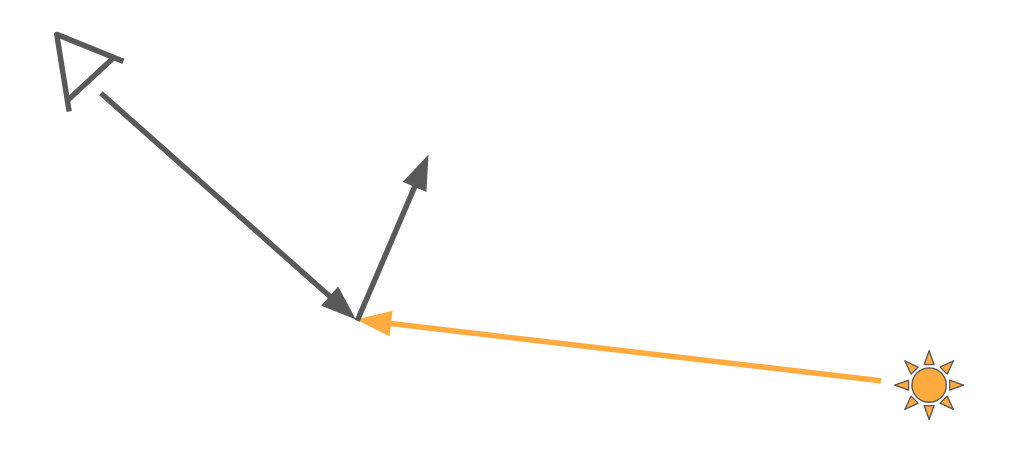
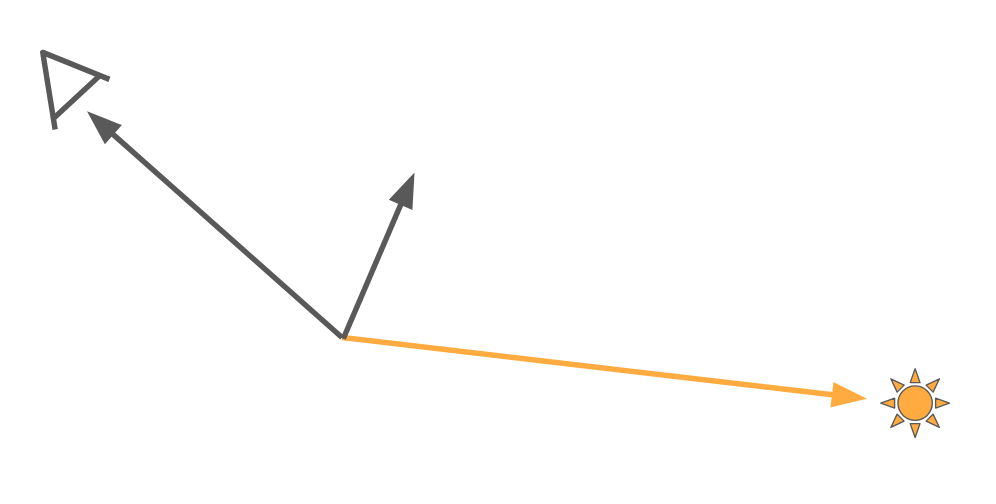
Finalize stretchy reflections blog post

Changed region(s): [[0.3112, 0.3914, 0.9649, 0.9032], [0.0311, 0.0602, 0.2801, 0.572], [0.4046, 0.3312, 0.4357, 0.3613]]

diff --git a/StretchyReflections.md b/StretchyReflections.md
@@ -2,7 +2,9 @@
 
 Often, when I walk along the Ottawa river, I like to look at the reflections.
 
-// TODO: Picture of water in Ottawa
+![](StretchyReflections_Assets/Ottawa02.jpg)
+
+![](StretchyReflections_Assets/Ottawa01.jpg)
 
 Notice that the reflections at the horizon are stretching vertically.
 
@@ -12,7 +14,7 @@ I thought I would share that with you!
 
 ## A Brief Detour Into Microfacet Models
 
-For this post, I'm assuming that the reader is not familiar with microfacet models. If you are, feel free to skip ahead.
+For this post, I'm assuming that the reader is not familiar with microfacet models. If you are, feel free to skip ahead. [\[Shortcut\]](#reflections-and-why-theyre-stretchy)
 
 Let's take a brief detour to summarize microfacets and perfect mirrors as these details are necessary to understand why we get those stretchy reflections.
 
@@ -31,7 +33,7 @@ Common lighting models in games make use of whats called a microfacet model. To 
 
 This is a piece of zinc-plated steel.
 
-If I were to ask you: "Is this a flat surface?" It seems likely that you would say yes! But if we take a microscopic view of the cross section, you'll see that it's actually quite a bit bumpy!
+If I were to ask you: "Is this a flat surface?" It seems likely that you would say yes. However, if we take a microscopic view of the cross section, you'll see that it's actually quite a bit bumpy!
 
 ![](StretchyReflections_Assets/ZincCoatedSteel_CrossSection.jpg)
 
@@ -51,7 +53,7 @@ What if all of these tiny little surfaces are actually perfect mirrors?
 
 ![](StretchyReflections_Assets/MirrorSurface.PNG)
 
-Where a perfect mirror is a surface that will reflect incoming light in a single direction. None of that "scattering" stuff. We want **perfect** reflections here! (You'll often see the words "Dirac delta" thrown around when talking about perfect mirrors)
+Where a perfect mirror is a surface that will reflect incoming light in a single direction. None of that "scattering" stuff. We want **perfect** reflections here!
 
 This assumption drastically simplifies the mathematics of our model.
 
@@ -61,7 +63,7 @@ What's next?
 
 ### Reflections
 
-We need to find out how much light reaches the viewer!
+We need to find out how much light reaches the viewer.
 
 To find out, we need to know how much light each microfacet reflects towards our view direction. Since we assumed that our surface was made up of tiny little perfect mirrors, only a single exact orientation of mirror will reflect light to our viewer. Every other mirror will not contribute to what our viewer sees.
 
@@ -75,15 +77,13 @@ $$
 Light_{Out} = Proportion(Orientation) * Light_{In}
 $$
 
-(I'm choosing to ignore shadowing and masking for simplicity - for a more thorough and accurate overview of microfacet models, take a look at some of the links I shared above. They're really good!)
+(You might notice that some of that light should be occluded by other microfacets. This is known as masking and shadowing. I'm choosing to ignore these for simplicit. They aren't necessary for us to understand this phenomenon. For a more thorough and accurate overview of microfacet models, take a look at some of the links I shared above. They're really good!)
 
 What **is** this exact orientation of mirror?
 
 It's simply the microfacet with a normal that points halfway between our light vector and view vector.
 
 The normal of that microfacet is usually called the half vector.
-
-![](StretchyReflections_Assets/LightAndViewDir_00.PNG)
 
 ![](StretchyReflections_Assets/LightAndViewDir_01.PNG)
 
@@ -140,7 +140,7 @@ If we could convert our normal into a two dimensional vector, we could input tha
 
 The transformation we're looking for is a transformation into slope space.
 
-For the purposes of this post, we won't be describing slope space. You can read more about it here: [Slope Space in BRDF Theory](https://www.reedbeta.com/blog/slope-space-in-brdf-theory/). For even more reading, slope space can be viewed as a specialization of a stereographic projection which is you can read more about on [Wikipedia](https://en.wikipedia.org/wiki/Stereographic_projection).
+For the purposes of this post, we won't be describing slope space. You can read more about it here: [Slope Space in BRDF Theory](https://www.reedbeta.com/blog/slope-space-in-brdf-theory/). For even more reading, slope space can be viewed as a specialization of a stereographic projection. [Wikipedia Link](https://en.wikipedia.org/wiki/Stereographic_projection).
 
 What matters to us is that slope space allows us to transform our three dimensional unit vector into a two dimensional vector.
 
@@ -243,17 +243,17 @@ Notice how as we move our view vector along the horizon our half vector moves aw
 
 ![](StretchyReflections_Assets/HorizonAngle_SlopeSpace_01.gif)
 
-This matches the behaviour we observed in 3D. Our half vector is moving away from the center of our distribution with the most influence. What happens to our half vector if we vary the altitude of our light vector?
+This matches the behaviour we observed in 3D. Our half vector is moving away from the center of our distribution. What happens to our half vector if we vary the altitude of our light vector?
 
 ![](StretchyReflections_Assets/HorizonAngle_ChangingViewAltitude.gif)
 
-It seems as though our half vector is moving away from our apex at different rates based on the altitude of our view vector!
+It seems as though our half vector is moving away from our apex at different rates based on the altitude of our light and vectors!
 
 Let's validate that in slope space.
 
 ![](StretchyReflections_Assets/HorizonAngle_SlopeSpace_ChangingViewAltitude.gif)
 
-Notice how our half vector moves away from the center of our distribution at a faster rate as our light vector moves closer to the horizon!
+Notice how our half vector moves away from the center of our distribution at a faster rate as our light vector moves closer to the horizon.
 
 As a result, we would expect to see the influence of a particular light vector to get narrower the closer it gets to the horizon.
 
@@ -267,7 +267,7 @@ A stretched area of influence which **finally** results in a stretchy reflection
 
 And that's it!
 
-Because our half vector moves away from our macro surface normal at an increased rate as the light vector approaches the horizon, the area that contributes to the reflection is "squished" along the horizontal axis.
+When our view vector approaches the horizon, our half vector moves away from our macro surface normal at an increased rate as the light vector also approaches the horizon. The area that contributes to the reflection is "squished" along the horizontal axis.
 
 There are three elements that contribute to stretchy reflections when viewed at the horizon.
 
@@ -276,31 +276,3 @@ There are three elements that contribute to stretchy reflections when viewed at 
 3. Distributing the majority of our microfacets around the macro surface normal.
 
 Hopefully this was insightful to you! If you have any questions or comments, you can reach out to me on Mastodon at [@AlexSneezeKing@mastodon.gamedev.place](https://mastodon.gamedev.place/@AlexSneezeKing).
-
-# Bonus Content - Trying (And Failing) To Approximate Anisotropic Reflections
-
-You're still here?
-
-Great!
-
-Let's talk about my failed attempts at approximating anisotropic reflections for image based lighting.
-
-Fair warning, I am assuming the reader of this section is familiar with the ideas behind the Split-Sum Approximation for image based lighting. For a refresher, the links below describe the technique.
-
-- [Real Shading in Unreal Engine 4](https://cdn2.unrealengine.com/Resources/files/2013SiggraphPresentationsNotes-26915738.pdf)
-- [Alternative Take on the Split Sum Approximation for Cubemap Pre-filtering](https://zero-radiance.github.io/post/split-sum/)
-
-A limitation of this technique is the fact that we use an isotropic approximation of our convolved lighting environment.
-
-I wanted to explore potential approximations that could allow for anisotropic reflections at grazing angles.
-
-## Analyzing The Data
-
-Let's visualize the data. I built a shadertoy sample that explores how our colors change along the longitude of  
-
-## Spherical Harmonics
-
-## Fourier Terms
-
-## Solving For A Reflection Vector Stretch And Bias
-
